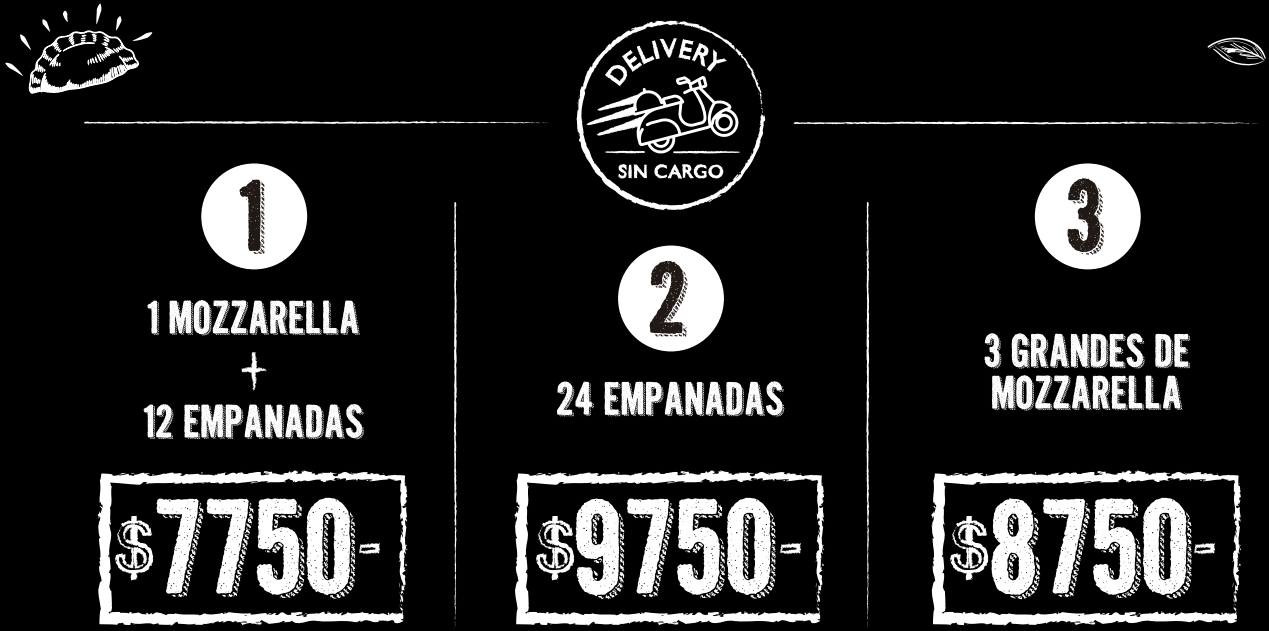
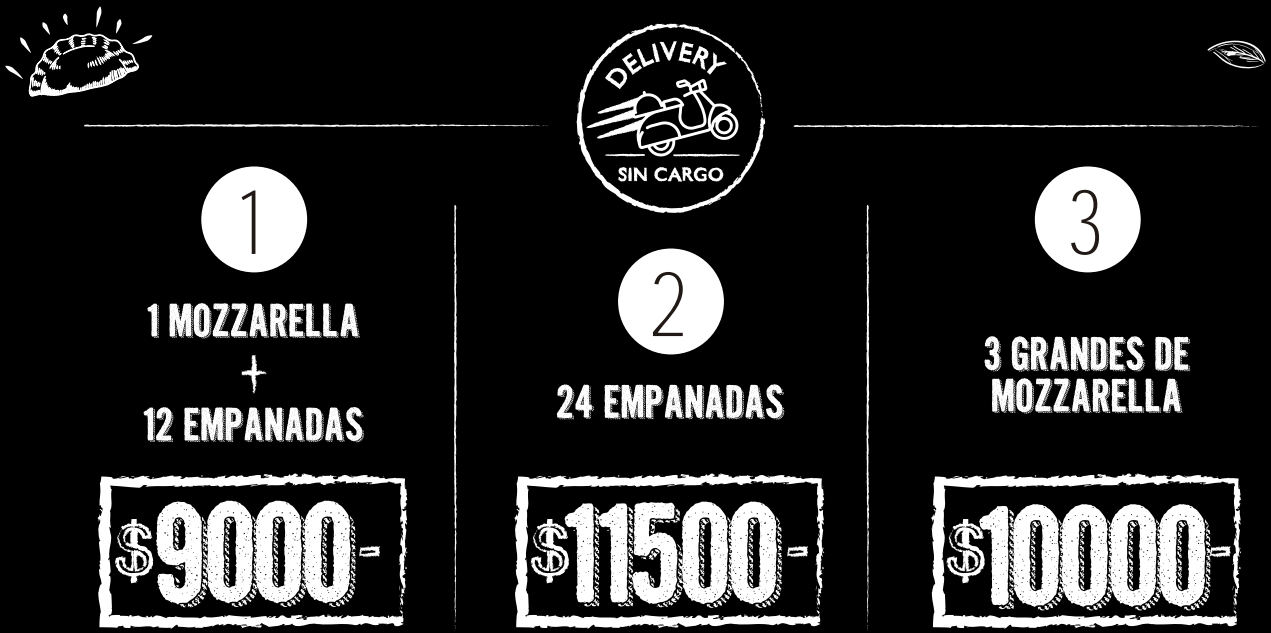
actu-precios-septiembre-2023

diff --git a/src/data/Pizzas-data.jsx b/src/data/Pizzas-data.jsx
@@ -1,33 +1,33 @@
 
 const productos = [
-    { id: 1, nombre: 'Mozzarella', descripcion: 'Salsa de tomate y mozzarella', precio: 3000 },
+    { id: 1, nombre: 'Mozzarella', descripcion: 'Salsa de tomate y mozzarella', precio: 3500 },
     { id: 2, nombre: 'Doble Mozza', descripcion: 'Salsa de tomate y doble mozzarella',precio: 
-    4000 },
-    { id: 3, nombre: 'Mozza c/Jamón', descripcion: 'Salsa de tomate, mozzarella y jamón',precio: 3750 },
-    { id: 4, nombre: 'Mozza c/anchoas', descripcion: 'Salsa de tomate, mozzarella y anchoas', precio: 4250 },
-    { id: 5, nombre: 'Jamón y Morrón', descripcion: 'Salsa de tomate, mozzarella , jamón y morrón',precio: 4500 },
-    { id: 6, nombre: 'Napolitana', descripcion: 'Salsa de tomate, mozzarella y tomate natural',precio: 3750 },
-    { id: 7, nombre: 'Napolitana y Jamón', descripcion: 'Salsa de tomate, mozzarella, tomate natural y jamón', precio: 4500 },
-    { id: 8, nombre: 'Fugaza c/Queso', descripcion: 'cebolla y mozzarella',precio: 3500 },
-    { id: 9, nombre: 'Fugaza rellena', descripcion: 'cebolla, mozzarella y jamón',precio: 5500 },
-    { id: 10, nombre: 'Salchicha', descripcion: 'Salsa de tomate, mozzarella y salchicha', precio: 4000 },
-    { id: 11, nombre: 'Palmitos', descripcion: 'Salsa de tomate, mozzarella y palmito',precio: 4500 },
-    { id: 12, nombre: 'Palmitos c/Jamón', descripcion: 'Salsa de tomate, mozzarella, palmito y jamón',precio: 5250 },
-    { id: 13, nombre: 'Champiñones', descripcion: 'Salsa de tomate, mozzarella y champiñon',precio: 4500 },
-    { id: 14, nombre: 'Hawaiana', descripcion: 'Salsa de tomate, mozzarella, jamón y ananá ',precio: 5250 },
-    { id: 15, nombre: 'Piamontesa', descripcion: 'Salsa de tomate, mozzarella, calabresa, champiñones y panceta',precio: 5500 },
-    { id: 16, nombre: 'Primavera', descripcion: 'Salsa de tomate, mozzarella, tomate, huevo y jamón',precio: 4750 },
-    { id: 17, nombre: 'Huevo', descripcion: 'Salsa de tomate, mozzarella y huevo',precio: 3750 },
-    { id: 18, nombre: 'Huevo c/Jamón', descripcion: 'Salsa de tomate, mozzarella, jamón y huevo',precio: 4500 },
-    { id: 19, nombre: 'Provolone', descripcion: 'Salsa de tomate, mozzarella y provolone',precio: 4500 },
-    { id: 20, nombre: 'Roquefort', descripcion: 'Salsa de tomate, mozzarella y roquefort',precio: 4500 },
-    { id: 21, nombre: 'Calabresa', descripcion: 'Salsa de tomate, mozzarella y calabresa',precio: 3850 },
-    { id: 22, nombre: 'Calabresa Especial', descripcion: 'Salsa de tomate, mozzarella, calabresa y morrón',precio: 4600 },
-    { id: 23, nombre: 'Rúcula y Parmesano', descripcion: 'Salsa de tomate, mozzarella, rúcula natural y parmesano',precio: 4750 },
-    { id: 24, nombre: 'Rúcula y Provolone', descripcion: 'Salsa de tomate, mozzarella, rúcula natural  y provolone',precio: 4850 },
-    { id: 25, nombre: 'Rúcula y Jamón Crudo', descripcion: 'Salsa de tomate, mozzarella, rúcula natural  y jamón crudo',precio: 4950 },
-    { id: 26, nombre: 'Especial BLOCK', descripcion: 'Salsa de tomate, mozzarella, panceta, huevos fritos y papas fritas',precio: 5750 },
-    { id: 27, nombre: 'Faina (porción)', descripcion: '',precio: 400 }
+    4800 },
+    { id: 3, nombre: 'Mozza c/Jamón', descripcion: 'Salsa de tomate, mozzarella y jamón',precio: 4500 },
+    { id: 4, nombre: 'Mozza c/anchoas', descripcion: 'Salsa de tomate, mozzarella y anchoas', precio: 5100 },
+    { id: 5, nombre: 'Jamón y Morrón', descripcion: 'Salsa de tomate, mozzarella , jamón y morrón',precio: 5400 },
+    { id: 6, nombre: 'Napolitana', descripcion: 'Salsa de tomate, mozzarella y tomate natural',precio: 4500 },
+    { id: 7, nombre: 'Napolitana y Jamón', descripcion: 'Salsa de tomate, mozzarella, tomate natural y jamón', precio: 5400 },
+    { id: 8, nombre: 'Fugaza c/Queso', descripcion: 'cebolla y mozzarella',precio: 4200 },
+    { id: 9, nombre: 'Fugaza rellena', descripcion: 'cebolla, mozzarella y jamón',precio: 6600 },
+    { id: 10, nombre: 'Salchicha', descripcion: 'Salsa de tomate, mozzarella y salchicha', precio: 4800 },
+    { id: 11, nombre: 'Palmitos', descripcion: 'Salsa de tomate, mozzarella y palmito',precio: 5400 },
+    { id: 12, nombre: 'Palmitos c/Jamón', descripcion: 'Salsa de tomate, mozzarella, palmito y jamón',precio: 6300 },
+    { id: 13, nombre: 'Champiñones', descripcion: 'Salsa de tomate, mozzarella y champiñon',precio: 5400 },
+    { id: 14, nombre: 'Hawaiana', descripcion: 'Salsa de tomate, mozzarella, jamón y ananá ',precio: 6300 },
+    { id: 15, nombre: 'Piamontesa', descripcion: 'Salsa de tomate, mozzarella, calabresa, champiñones y panceta',precio: 6600 },
+    { id: 16, nombre: 'Primavera', descripcion: 'Salsa de tomate, mozzarella, tomate, huevo y jamón',precio: 5700 },
+    { id: 17, nombre: 'Huevo', descripcion: 'Salsa de tomate, mozzarella y huevo',precio: 4500 },
+    { id: 18, nombre: 'Huevo c/Jamón', descripcion: 'Salsa de tomate, mozzarella, jamón y huevo',precio: 5400 },
+    { id: 19, nombre: 'Provolone', descripcion: 'Salsa de tomate, mozzarella y provolone',precio: 5400 },
+    { id: 20, nombre: 'Roquefort', descripcion: 'Salsa de tomate, mozzarella y roquefort',precio: 5400 },
+    { id: 21, nombre: 'Calabresa', descripcion: 'Salsa de tomate, mozzarella y calabresa',precio: 4600 },
+    { id: 22, nombre: 'Calabresa Especial', descripcion: 'Salsa de tomate, mozzarella, calabresa y morrón',precio: 5500 },
+    { id: 23, nombre: 'Rúcula y Parmesano', descripcion: 'Salsa de tomate, mozzarella, rúcula natural y parmesano',precio: 5700 },
+    { id: 24, nombre: 'Rúcula y Provolone', descripcion: 'Salsa de tomate, mozzarella, rúcula natural  y provolone',precio: 5800 },
+    { id: 25, nombre: 'Rúcula y Jamón Crudo', descripcion: 'Salsa de tomate, mozzarella, rúcula natural  y jamón crudo',precio: 5950 },
+    { id: 26, nombre: 'Especial BLOCK', descripcion: 'Salsa de tomate, mozzarella, panceta, huevos fritos y papas fritas',precio: 6900 },
+    { id: 27, nombre: 'Faina (porción)', descripcion: '',precio: 500 }
 
   
 ]

diff --git a/src/data/Milanesas-data.jsx b/src/data/Milanesas-data.jsx
@@ -1,20 +1,20 @@
 
 const milanesasData = [
-    { id: 1, nombre: 'Milanesa', descripcion: 'Milanesas + papas fritas', precio: 4000 },
-    { id: 2, nombre: 'Napolitana', descripcion: 'Salsa de tomate, mozzarella y tomate natural + fritas',precio: 5000 },
-    { id: 3, nombre: 'Jamón y Morrón', descripcion: 'Salsa de tomate, mozzarella , jamón y morrón',precio: 5500 },
-    { id: 4, nombre: 'Jamón y Huevo', descripcion: 'Salsa de tomate, mozzarella, jamón y huevo duro + fritas', precio: 5500 },
-    { id: 5, nombre: 'Fugazza c/Queso', descripcion: 'Mozzarella y cebolla + fritas',precio: 5000 },
-    { id: 6, nombre: 'Primavera', descripcion: 'Salsa de tomate, mozzarella, tomate, huevo y jamón + fritas',precio: 6000 },
-    { id: 7, nombre: 'Provolone', descripcion: 'Salsa de tomate, mozzarella y provolone + fritas',precio: 5500 },
-    { id: 8, nombre: 'Roquefort', descripcion: 'Salsa de tomate, mozzarella y roquefort + fritas',precio: 5500 },
-    { id: 9, nombre: 'Hawaiana', descripcion: 'Salsa de tomate, mozzarella, jamón y ananá + fritas',precio: 6000 },
-    { id: 10, nombre: 'Calabresa', descripcion: 'Salsa de tomate, mozzarella y calabresa + fritas',precio: 5500 },
-    { id: 11, nombre: 'Rúcula y Jamón Crudo', descripcion: 'Salsa de tomate, mozzarella, rúcula natural  y jamón crudo + fritas',precio: 6000 },
-    { id: 12, nombre: 'Rúcula y Parmesano', descripcion: 'Salsa de tomate, mozzarella, rúcula natural y parmesano + fritas',precio: 5750 },
-    { id: 13, nombre: 'Mila BLOCK', descripcion: 'Salsa de tomate, mozzarella, panceta, huevos fritos y papas fritas + porción de fritas',precio: 6500 },
-    { id: 14, nombre: 'Porción de Fritas', descripcion: '(Para Compartir)',precio: 2500 },
-    { id: 15, nombre: 'Fritas', descripcion: '(Media Porción)',precio: 1500 }
+    { id: 1, nombre: 'Milanesa', descripcion: 'Milanesas + papas fritas', precio: 5000 },
+    { id: 2, nombre: 'Napolitana', descripcion: 'Salsa de tomate, mozzarella y tomate natural + fritas',precio: 6500 },
+    { id: 3, nombre: 'Jamón y Morrón', descripcion: 'Salsa de tomate, mozzarella , jamón y morrón',precio: 7000 },
+    { id: 4, nombre: 'Jamón y Huevo', descripcion: 'Salsa de tomate, mozzarella, jamón y huevo duro + fritas', precio: 7000 },
+    { id: 5, nombre: 'Fugazza c/Queso', descripcion: 'Mozzarella y cebolla + fritas',precio: 6000 },
+    { id: 6, nombre: 'Primavera', descripcion: 'Salsa de tomate, mozzarella, tomate, huevo y jamón + fritas',precio: 7500 },
+    { id: 7, nombre: 'Provolone', descripcion: 'Salsa de tomate, mozzarella y provolone + fritas',precio: 7000 },
+    { id: 8, nombre: 'Roquefort', descripcion: 'Salsa de tomate, mozzarella y roquefort + fritas',precio: 7000 },
+    { id: 9, nombre: 'Hawaiana', descripcion: 'Salsa de tomate, mozzarella, jamón y ananá + fritas',precio: 7500 },
+    { id: 10, nombre: 'Calabresa', descripcion: 'Salsa de tomate, mozzarella y calabresa + fritas',precio: 7000 },
+    { id: 11, nombre: 'Rúcula y Jamón Crudo', descripcion: 'Salsa de tomate, mozzarella, rúcula natural  y jamón crudo + fritas',precio: 7500 },
+    { id: 12, nombre: 'Rúcula y Parmesano', descripcion: 'Salsa de tomate, mozzarella, rúcula natural y parmesano + fritas',precio: 7250 },
+    { id: 13, nombre: 'Mila BLOCK', descripcion: 'Salsa de tomate, mozzarella, panceta, huevos fritos y papas fritas + porción de fritas',precio: 8000 },
+    { id: 14, nombre: 'Porción de Fritas', descripcion: '(Para Compartir)',precio: 3000 },
+    { id: 15, nombre: 'Fritas', descripcion: '(Media Porción)',precio: 2000 }
 
 ]
 

diff --git a/src/data/Sandwiches-data.jsx b/src/data/Sandwiches-data.jsx
@@ -1,7 +1,7 @@
 const sandwichesData = [
-    { id: 1, nombre: 'Sándwich de Milanesa simple', descripcion: '', precio: 2000 },
-    { id: 2, nombre: 'Sándwich de Milanesa', descripcion: '(2 ingredientes a elección) Lechuga - tomate - jamón y queso',precio: 2500 },
-    { id: 3, nombre: 'Sándwich de Milanesa', descripcion: 'Completo',precio: 3000 },
+    { id: 1, nombre: 'Sándwich de Milanesa simple', descripcion: '', precio: 2500 },
+    { id: 2, nombre: 'Sándwich de Milanesa', descripcion: '(2 ingredientes a elección) Lechuga - tomate - jamón y queso',precio: 3000 },
+    { id: 3, nombre: 'Sándwich de Milanesa', descripcion: 'Completo',precio: 3500 },
 ]
 
 export default sandwichesData

diff --git a/src/data/Papas-data.jsx b/src/data/Papas-data.jsx
@@ -1,7 +1,7 @@
 const papasData = [
-    { id: 1, nombre: 'Cheddar - Panceta y Verdeo', precio: 1250 },
-    { id: 2, nombre: 'Huevos Fritos (Dos)', precio: 900 },
-    { id: 3, nombre: 'Provenzal', precio: 750 },
+    { id: 1, nombre: 'Cheddar - Panceta y Verdeo', precio: 1500 },
+    { id: 2, nombre: 'Huevos Fritos (Dos)', precio: 1200 },
+    { id: 3, nombre: 'Provenzal', precio: 950 },
 ]
 
 export default papasData
